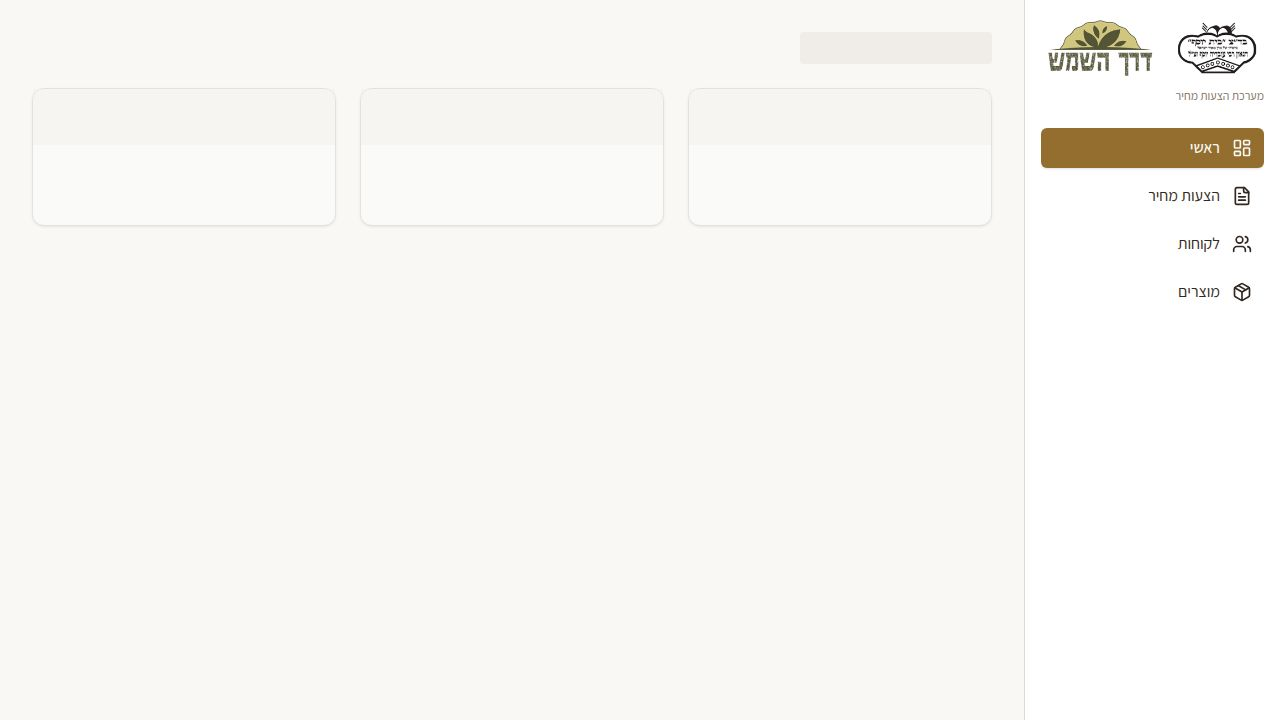
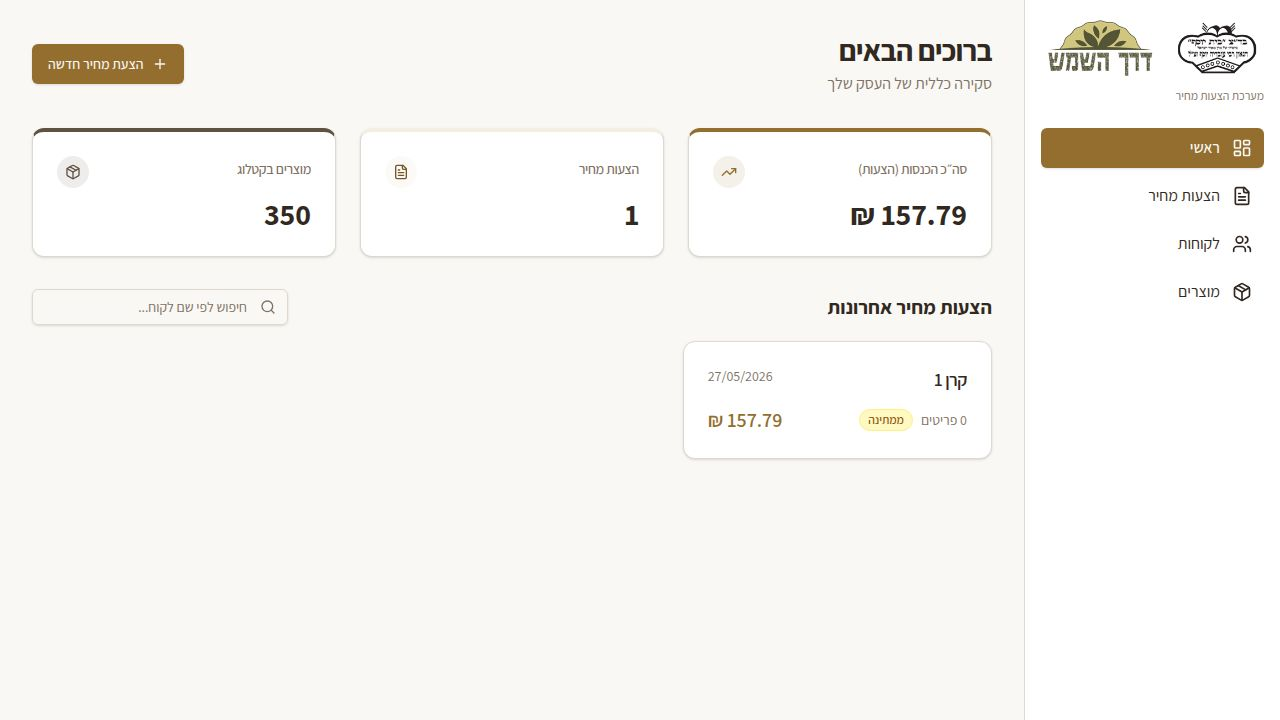
Add size/weight columns to product selector in quote creation
Added קטן / בינוני / גדול / משקל/כמות columns to the product-picker
dialog in both quote-new.tsx and quote-edit.tsx, matching the columns
shown in the main products management table.

Files changed:
- artifacts/derech-hashemesh/src/pages/quote-new.tsx
- artifacts/derech-hashemesh/src/pages/quote-edit.tsx

diff --git a/artifacts/derech-hashemesh/src/pages/quote-edit.tsx b/artifacts/derech-hashemesh/src/pages/quote-edit.tsx
@@ -446,7 +446,10 @@ export default function QuoteEdit() {
                       </TableHead>
                       <TableHead className="text-right">תיאור פריט</TableHead>
                       <TableHead className="text-right">מחלקה</TableHead>
-                      <TableHead className="text-right">משקל (ק"ג)</TableHead>
+                      <TableHead className="text-right text-center">קטן</TableHead>
+                      <TableHead className="text-right text-center">בינוני</TableHead>
+                      <TableHead className="text-right text-center">גדול</TableHead>
+                      <TableHead className="text-right">משקל/כמות</TableHead>
                       <TableHead className="text-right">מחיר לק"ג</TableHead>
                       <TableHead className="text-right">מחיר ליח'</TableHead>
                     </TableRow>
@@ -477,7 +480,10 @@ export default function QuoteEdit() {
                             {alreadyAdded && <div className="text-xs text-green-600 font-medium">✓ כבר בהצעה</div>}
                           </TableCell>
                           <TableCell><Badge variant="outline" className="text-xs">{p.department}</Badge></TableCell>
-                          <TableCell>{formatNumber(p.weightKg)}</TableCell>
+                          <TableCell className="text-sm text-center">{p.sizeSmall || "—"}</TableCell>
+                          <TableCell className="text-sm text-center">{p.sizeMedium || "—"}</TableCell>
+                          <TableCell className="text-sm text-center">{p.sizeLarge || "—"}</TableCell>
+                          <TableCell className="text-sm">{p.weightOrAmount || "—"}</TableCell>
                           <TableCell className="text-primary font-semibold">{formatCurrency(p.pricePerKg)}</TableCell>
                           <TableCell>{formatCurrency(p.pricePerKg * p.weightKg)}</TableCell>
                         </TableRow>

diff --git a/artifacts/derech-hashemesh/src/pages/quote-new.tsx b/artifacts/derech-hashemesh/src/pages/quote-new.tsx
@@ -472,7 +472,10 @@ export default function QuoteNew() {
                       </TableHead>
                       <TableHead className="text-right">תיאור פריט</TableHead>
                       <TableHead className="text-right">מחלקה</TableHead>
-                      <TableHead className="text-right">משקל (ק"ג)</TableHead>
+                      <TableHead className="text-right text-center">קטן</TableHead>
+                      <TableHead className="text-right text-center">בינוני</TableHead>
+                      <TableHead className="text-right text-center">גדול</TableHead>
+                      <TableHead className="text-right">משקל/כמות</TableHead>
                       <TableHead className="text-right">מחיר לק"ג</TableHead>
                       <TableHead className="text-right">מחיר ליח'</TableHead>
                     </TableRow>
@@ -505,7 +508,10 @@ export default function QuoteNew() {
                             {alreadyAdded && <div className="text-xs text-green-600 font-medium">✓ כבר בהצעה</div>}
                           </TableCell>
                           <TableCell><Badge variant="outline" className="text-xs">{p.department}</Badge></TableCell>
-                          <TableCell>{formatNumber(p.weightKg)}</TableCell>
+                          <TableCell className="text-sm text-center">{p.sizeSmall || "—"}</TableCell>
+                          <TableCell className="text-sm text-center">{p.sizeMedium || "—"}</TableCell>
+                          <TableCell className="text-sm text-center">{p.sizeLarge || "—"}</TableCell>
+                          <TableCell className="text-sm">{p.weightOrAmount || "—"}</TableCell>
                           <TableCell className="text-primary font-semibold">{formatCurrency(p.pricePerKg)}</TableCell>
                           <TableCell>{formatCurrency(p.pricePerKg * p.weightKg)}</TableCell>
                         </TableRow>